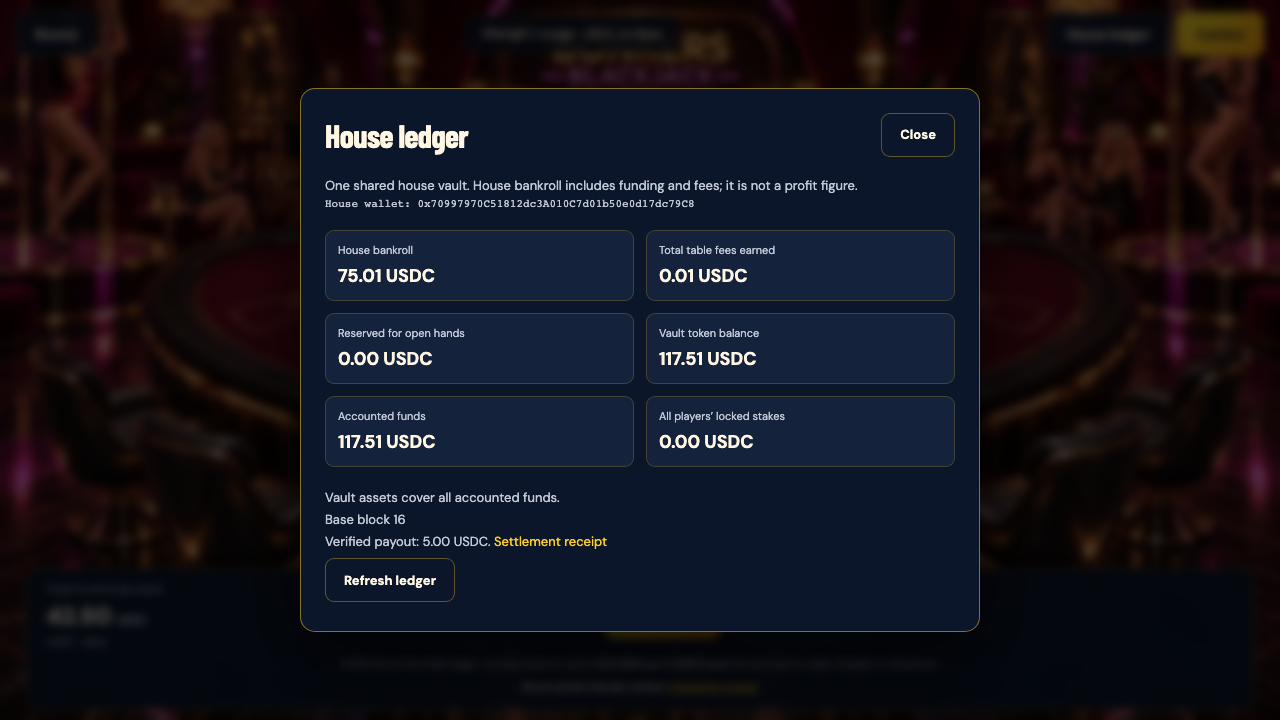
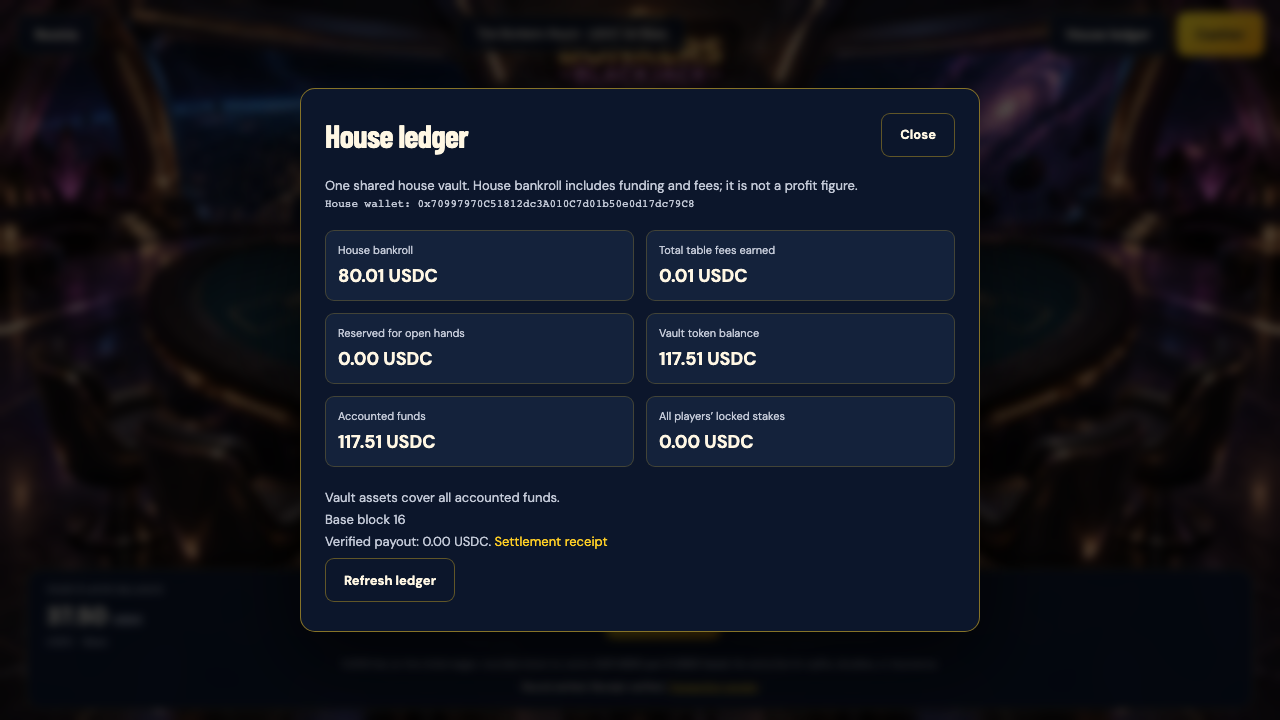
Keep higher-stakes rooms coming soon and explain house collateral

diff --git a/app/crypto-pilot/ui.tsx b/app/crypto-pilot/ui.tsx
@@ -77,7 +77,7 @@ export default function Pilot({roomId='bonkers-room',housePage=false}:{roomId?:R
     <section className="cashier-section"><h3>Deposit</h3><label className="wallet-amount">Deposit amount (USDC)<input inputMode="decimal" value={depositAmount} onChange={e=>setDepositAmount(e.target.value)}/></label><button className="live-button" disabled={!authenticated||!status.depositsOpen||!!busy} onClick={()=>void deposit()}>Approve &amp; deposit USDC</button><p>Suggested: 42.51 USDC covers four doubled split hands, insurance, and the initial fee. Your wallet shows the exact approval and network fee before confirmation.</p></section>
     <section className="cashier-section"><h3>Withdraw</h3><label className="wallet-amount">Withdrawal amount (USDC)<input inputMode="decimal" placeholder="Leave blank for all available funds" value={withdrawAmount} onChange={e=>setWithdrawAmount(e.target.value)}/></label><p className="live-address">Destination: {owner}</p><button className="live-button quiet" disabled={!d||!!busy||!balances.available||BigInt(balances.available)===0n} onClick={()=>void withdraw()}>Withdraw USDC</button><p>Withdrawals remain available when deposits are closed. Funds locked in a hand become available after settlement or recovery.</p></section>
    </>}
-   {isHouse&&<section className="house-controls"><h3>House administration</h3><p>Only your configured house wallet can use these controls. Players share this table and never fund the house themselves.</p>{!d?<><button className="live-button" disabled={!authenticated||!status.dealer||!!busy} onClick={()=>void deploy()}>Create shared house table</button><details><summary>Recover a completed deployment</summary><label className="wallet-amount">Deployment transaction hash<input value={deploymentHash} onChange={e=>setDeploymentHash(e.target.value)}/></label><button className="live-button quiet" disabled={!authenticated||!!busy} onClick={()=>void registerDeployment()}>Register deployment receipt</button></details></>:<><label className="wallet-amount">House funding amount (USDC)<input inputMode="decimal" value={houseAmount} onChange={e=>setHouseAmount(e.target.value)}/></label><button className="live-button quiet" disabled={!!busy} onClick={()=>void fund()}>Fund house reserve</button><button className="live-button quiet" disabled={!!busy} onClick={()=>void fundGas()}>Fund dealer gas · 0.0002 ETH</button><p>Dealer gas: {status.dealerGas?`${Number(BigInt(status.dealerGas))/1e18} ETH`:'—'}. The dealer handles cards; it cannot withdraw USDC. Funding keeps deposits closed.</p><button className="live-button" disabled={!!busy||status.depositsOpen||!status.dealerReady||BigInt(status.houseBalance??'0')-BigInt(status.reserved??'0')<HOUSE_RESERVE} onClick={()=>void setDeposits(true)}>House funded — open deposits</button><button className="live-button quiet" disabled={!!busy} onClick={()=>void setDeposits(false)}>Close deposits</button><button className="live-button quiet" disabled={!!busy} onClick={()=>void withdrawHouse()}>Withdraw unreserved house funds</button></>}</section>}
+   {isHouse&&<section className="house-controls"><h3>House administration</h3><p>Only your configured house wallet can use these controls. Players use this shared vault and never fund the house themselves.</p><p>75 USDC is the minimum house collateral for one active 5-USDC hand. Seven simultaneous hands require at least 525 USDC before a cushion for losses. Funding 75 USDC does not fund seven seats.</p>{!d?<><button className="live-button" disabled={!authenticated||!status.dealer||!!busy} onClick={()=>void deploy()}>Create shared house table</button><details><summary>Recover a completed deployment</summary><label className="wallet-amount">Deployment transaction hash<input value={deploymentHash} onChange={e=>setDeploymentHash(e.target.value)}/></label><button className="live-button quiet" disabled={!authenticated||!!busy} onClick={()=>void registerDeployment()}>Register deployment receipt</button></details></>:<><label className="wallet-amount">House funding amount (USDC)<input inputMode="decimal" value={houseAmount} onChange={e=>setHouseAmount(e.target.value)}/></label><button className="live-button quiet" disabled={!!busy} onClick={()=>void fund()}>Fund house reserve</button><button className="live-button quiet" disabled={!!busy} onClick={()=>void fundGas()}>Fund dealer gas · 0.0002 ETH</button><p>Dealer gas: {status.dealerGas?`${Number(BigInt(status.dealerGas))/1e18} ETH`:'—'}. The dealer handles cards; it cannot withdraw USDC. Funding keeps deposits closed.</p><button className="live-button" disabled={!!busy||status.depositsOpen||!status.dealerReady||BigInt(status.houseBalance??'0')-BigInt(status.reserved??'0')<HOUSE_RESERVE} onClick={()=>void setDeposits(true)}>House funded — open deposits</button><button className="live-button quiet" disabled={!!busy} onClick={()=>void setDeposits(false)}>Close deposits</button><button className="live-button quiet" disabled={!!busy} onClick={()=>void withdrawHouse()}>Withdraw unreserved house funds</button></>}</section>}
    {housePage&&!isHouse&&<p className="live-address">House administrator: {status.house}. Connect that wallet to manage the house.</p>}{d&&<a className="live-contract-link" href={`https://basescan.org/address/${d.game}`} target="_blank" rel="noreferrer">View shared table contract</a>}<p>Use the deposit button to credit your balance. Direct token transfers to the house address or vault do not credit a player account.</p><p className="live-message" role="status">{busy||message}</p>
   </WalletDialog>}
   {ledger&&<WalletDialog title="House ledger" onClose={()=>setLedger(false)}><p>One shared house vault. House bankroll includes funding and fees; it is not a profit figure.</p><p className="live-address">House wallet: {status.house}</p><dl className="wallet-stats"><div><dt>House bankroll</dt><dd data-testid="house-bankroll">{display(balances.house||status.houseBalance)} USDC</dd></div><div><dt>Total table fees earned</dt><dd data-testid="house-fees">{display(balances.fees)} USDC</dd></div><div><dt>Reserved for open hands</dt><dd>{display(balances.reserved||status.reserved)} USDC</dd></div><div><dt>Vault token balance</dt><dd>{display(balances.assets)} USDC</dd></div><div><dt>Accounted funds</dt><dd>{display(balances.accounted)} USDC</dd></div><div><dt>All players’ locked stakes</dt><dd>{display(balances.locked)} USDC</dd></div></dl><p data-testid="ledger-integrity">{!balances.accounted?'Connect a wallet to read the full ledger.':BigInt(balances.assets)>=BigInt(balances.accounted)?'Vault assets cover all accounted funds.':'Reconciliation required; new play is disabled.'}</p><p>Base block {balances.block||'—'}</p>{round?.receipt&&<p>Verified payout: {display(round.receipt.payouts[0])} USDC. <a href={`https://basescan.org/tx/${round.receipt.settlementHash}`} target="_blank" rel="noreferrer">Settlement receipt</a></p>}<button className="live-button quiet" disabled={!!busy} onClick={()=>void run('Refresh ledger',async()=>{const s=await refreshStatus();await readBalances(s);})}>Refresh ledger</button></WalletDialog>}

diff --git a/tests/crypto-browser/live-wallet.spec.ts b/tests/crypto-browser/live-wallet.spec.ts
@@ -23,7 +23,7 @@ async function connect(page:Page){await page.getByRole('button',{name:'Choose wa
 test('one shared house: Base selection, explicit opening, separate player deposit/play/withdraw',async({browser})=>{
  test.setTimeout(240000);const houseContext=await browser.newContext(),playerContext=await browser.newContext();const hp=await houseContext.newPage(),pp=await playerContext.newPage(),errors:string[]=[];hp.on('pageerror',e=>errors.push(e.message));pp.on('pageerror',e=>errors.push(e.message));hp.setDefaultTimeout(15000);pp.setDefaultTimeout(15000);await inject(hp,house);await inject(pp,player);
  await hp.goto('/house');await connect(hp);const hd=hp.getByRole('dialog',{name:'House controls'});await expect(hd.getByRole('button',{name:'Create shared house table',exact:true})).toBeEnabled();await hd.getByRole('button',{name:'Create shared house table',exact:true}).click();await expect(hd.getByRole('status')).toContainText('Shared table created',{timeout:60000});const status=await (await hp.request.get('/api/house/status')).json();const{game,vault}=status.deployment;assert.notEqual(house.address.toLowerCase(),player.address.toLowerCase());
- await pp.goto('/live/midnight-lounge');await pp.locator('.live-table-header').getByRole('button',{name:'Connect wallet',exact:true}).click();await pp.getByRole('dialog',{name:'Connect wallet'}).getByRole('button',{name:'Base / Coinbase Wallet',exact:true}).click();const pd=pp.getByRole('dialog',{name:'USDC cashier'});await expect(pd.getByRole('button',{name:'Approve & deposit USDC',exact:true})).toBeDisabled();await expect(pd.getByRole('heading',{name:'House administration'})).toHaveCount(0);await expect(pd.getByRole('button',{name:'Create shared house table'})).toHaveCount(0);
+ await pp.goto('/live/bonkers-room');await pp.locator('.live-table-header').getByRole('button',{name:'Connect wallet',exact:true}).click();await pp.getByRole('dialog',{name:'Connect wallet'}).getByRole('button',{name:'Base / Coinbase Wallet',exact:true}).click();const pd=pp.getByRole('dialog',{name:'USDC cashier'});await expect(pd.getByRole('button',{name:'Approve & deposit USDC',exact:true})).toBeDisabled();await expect(pd.getByRole('heading',{name:'House administration'})).toHaveCount(0);await expect(pd.getByRole('button',{name:'Create shared house table'})).toHaveCount(0);
  await hd.getByRole('button',{name:'Fund house reserve',exact:true}).click();await expect(hd.getByRole('status')).toContainText('House reserve funded',{timeout:60000});assert.equal(await client.readContract({address:vault,abi:vaultAbi,functionName:'paused'}),true);assert.equal((await (await pp.request.get('/api/house/status')).json()).depositsOpen,false);
  await hd.getByRole('button',{name:'House funded — open deposits',exact:true}).click();await expect(hd.getByRole('status')).toContainText('You opened deposits',{timeout:60000});assert.equal(await client.readContract({address:vault,abi:vaultAbi,functionName:'paused'}),false);
  await pp.reload();await pp.locator('.live-table-header').getByRole('button',{name:'Connect wallet',exact:true}).click();await pp.getByRole('dialog',{name:'Connect wallet'}).getByRole('button',{name:'Base / Coinbase Wallet',exact:true}).click();await expect(pd.getByRole('button',{name:'Approve & deposit USDC',exact:true})).toBeEnabled();await pd.getByLabel('Deposit amount (USDC)').fill('42.51');await pd.getByRole('button',{name:'Approve & deposit USDC',exact:true}).click();await expect(pd.getByRole('status')).toContainText('Deposit confirmed',{timeout:60000});assert.equal(await client.readContract({address:vault,abi:vaultAbi,functionName:'available',args:[player.address]}),42510000n);assert.equal(await client.readContract({address:vault,abi:vaultAbi,functionName:'available',args:[house.address]}),0n);
@@ -39,6 +39,11 @@ test('one shared house: Base selection, explicit opening, separate player deposi
 
 test('public lobby stays closed and Connect wallet opens the explicit Base chooser',async({page})=>{
  await page.goto('/');await expect(page.getByText('Deposits are closed until the house wallet funds the reserve and explicitly opens them.',{exact:false})).toBeVisible();
- for(const [name,id]of [['The Bonkers Room','bonkers-room'],['Midnight Lounge','midnight-lounge'],['Carnival Club','high-society']])await expect(page.getByRole('link',{name:'Enter '+name,exact:true})).toHaveAttribute('href','/live/'+id);
+ await expect(page.getByRole('link',{name:'Enter The Bonkers Room',exact:true})).toHaveAttribute('href','/live/bonkers-room');
+ for(const [name,id]of [['Midnight Lounge','midnight-lounge'],['Carnival Club','high-society']]){
+  await expect(page.getByRole('article',{name:name+' — Coming soon'})).toBeVisible();await expect(page.getByRole('link',{name:'Enter '+name,exact:true})).toHaveCount(0);
+  await page.goto('/live/'+id);await expect(page.getByRole('heading',{name:'Coming soon',exact:true})).toBeVisible();await expect(page.getByRole('button',{name:'Deal 5 USDC'})).toHaveCount(0);await page.goto('/');
+ }
+ await page.screenshot({path:'docs/screenshots/first-room-only.png',fullPage:true});
  await page.getByRole('link',{name:'Connect wallet',exact:true}).click();const chooser=page.getByRole('dialog',{name:'Connect wallet'});await expect(chooser).toBeVisible();await expect(chooser.getByRole('button',{name:'Base / Coinbase Wallet · Not detected',exact:true})).toBeDisabled();await expect(chooser.getByText('No wallet will be selected automatically.')).toBeVisible();
 });

diff --git a/src/LiveLobby.tsx b/src/LiveLobby.tsx
@@ -1,6 +1,6 @@
 import Image from 'next/image';
 import Link from 'next/link';
-import {ROOMS} from '../shared/rooms';
+import {ROOMS,liveRoomOpen} from '../shared/rooms';
 import './live.css';
 import {houseStatus} from '../server/crypto/house';
 export default async function LiveLobby(){
@@ -8,7 +8,11 @@ export default async function LiveLobby(){
  return <main className="live-home">
   <header className="live-header"><Link href="/" className="live-brand"><Image src="/bonkers-blackjack-logo.png" alt="Bonkers Blackjack" width={80} height={80}/><span>BONKERS<small>BLACKJACK</small></span></Link><span className="live-network">USDC · BASE</span><Link href="/live/bonkers-room?cashier=1" className="live-button">Connect wallet</Link></header>
   <section className="live-intro"><div><p className="live-eyebrow">ONE HOUSE. YOUR WALLET.</p><h1>A little mad.<br/><span>All blackjack.</span></h1><p>Pick your room. Bring your wallet. Play with native USDC on Base.</p><p className="live-intro-note">{status.depositsOpen?'Deposits are open. Connect your wallet to deposit and play.':'Deposits are closed until the house wallet funds the reserve and explicitly opens them.'} Wagers start at 5 USDC.</p>{!process.env.VERCEL&&!status.dealer&&<p><a className="live-button quiet" href="https://bonkers-blackjack.vercel.app/house">Open hosted house controls</a></p>}</div><Image src="/bonkers-blackjack-logo.png" alt="Bonkers Blackjack grinning dog logo" width={450} height={450} priority/></section>
-  <section className="live-rooms" aria-label="Choose a room">{Object.entries(ROOMS).map(([id,room])=><Link key={id} className="live-room-card" href={`/live/${id}`} aria-label={`Enter ${room.name}`} prefetch={false}><div className="live-room-picture"><Image src={room.image} alt={room.description} fill sizes="(max-width: 700px) 100vw, 33vw" loading="eager"/><span>{room.label}</span></div><div className="live-room-caption"><h2>{room.name}</h2><p>5 USDC initial wager · Blackjack pays 3:2</p><strong>Enter room</strong></div></Link>)}</section>
+  <section className="live-rooms" aria-label="Choose a room">{Object.entries(ROOMS).map(([id,room])=>{
+   const open=liveRoomOpen(id);
+   const content=<><div className="live-room-picture"><Image src={room.image} alt={room.description} fill sizes="(max-width: 700px) 100vw, 33vw" loading="eager"/><span>{room.label}</span>{!open&&<b className="coming-soon-badge">Coming soon</b>}</div><div className="live-room-caption"><h2>{room.name}</h2><p>{open?'5 USDC initial wager · Blackjack pays 3:2':'Higher stakes · Opening later'}</p><strong>{open?'Enter room':'Coming soon'}</strong></div></>;
+   return open?<Link key={id} className="live-room-card" href={`/live/${id}`} aria-label={`Enter ${room.name}`} prefetch={false}>{content}</Link>:<article key={id} className="live-room-card coming-soon-card" aria-label={`${room.name} — Coming soon`}>{content}</article>;
+  })}</section>
   <footer className="live-footer"><Link href="/house">House controls</Link><p>Native USDC on Base. Each transaction requires your wallet confirmation. Contracts are unaudited.</p><p>18+ · Insurance · Splitting · Doubling · Late surrender</p></footer>
  </main>;
 }

diff --git a/src/live.css b/src/live.css
@@ -5,3 +5,5 @@
 @media(prefers-reduced-motion:reduce){.live-room-card{transition:none}}
 
 .wallet-choices{display:grid;gap:10px;margin:20px 0}.wallet-dialog a{color:#ffcf26}.cashier-network{display:flex;justify-content:space-between;gap:15px;align-items:center;background:#14223b;border:1px solid #ffcf2659;border-radius:9px;padding:14px}.cashier-network span{font-size:12px;color:#c3c9d7}.cashier-section,.house-controls{border-top:1px solid #ffcf2644;margin-top:22px;padding-top:12px}.house-controls{border:1px solid #ffcf2666;border-radius:12px;padding:16px}.house-controls .live-button{margin:5px 6px 5px 0}.wallet-dialog .live-notice{color:#ffcf26}.live-room-status{white-space:normal;min-width:210px}.live-room-status:empty{display:none}
+
+.coming-soon-card:hover{transform:none;border-color:#ffcf2644}.coming-soon-card .live-room-picture img{filter:brightness(.55)}.coming-soon-badge{position:absolute;inset:0;display:flex;align-items:center;justify-content:center;text-transform:uppercase;letter-spacing:3px;font:800 clamp(20px,2.5vw,36px) var(--font-heading),sans-serif;color:#ffcf26;text-shadow:0 3px 15px #000}.coming-soon-page{position:relative;min-height:100dvh;display:grid;place-items:center;background:#080f24;color:#fff7e4;padding:24px;isolation:isolate}.coming-soon-page>img{object-fit:cover;z-index:-1;filter:brightness(.3)}.coming-soon-page>section{max-width:560px;text-align:center;padding:35px;background:#0a142bf0;border:1px solid #ffcf2666;border-radius:16px}.coming-soon-page h1{font:700 48px var(--font-heading),sans-serif}.coming-soon-page h2{color:#ffcf26;font-size:28px}.coming-soon-page p{line-height:1.7}.coming-soon-page .live-button{margin-top:15px}

diff --git a/app/live/[room]/page.tsx b/app/live/[room]/page.tsx
@@ -1,10 +1,16 @@
+import Link from 'next/link';
+import Image from 'next/image';
 import {notFound} from 'next/navigation';
 import Pilot from '../../crypto-pilot/ui';
-import {ROOMS,type RoomId} from '../../../shared/rooms';
+import {ROOMS,liveRoomOpen,type RoomId} from '../../../shared/rooms';
 import {cryptoPilotEnabled} from '../../../shared/crypto/access';
 export const dynamic='force-dynamic';
 export default async function Page({params}:{params:Promise<{room:string}>}){
  const {room}=await params;
  if(!cryptoPilotEnabled()||!Object.hasOwn(ROOMS,room))notFound();
+ if(!liveRoomOpen(room)){
+  const info=ROOMS[room as RoomId];
+  return <main className="coming-soon-page"><Image src={info.image} alt={info.description} fill sizes="100vw" priority/><section><p className="live-eyebrow">HIGHER STAKES</p><h1>{info.name}</h1><h2>Coming soon</h2><p>This room is not accepting players or wagers yet.</p><Link className="live-button" href="/">Back to rooms</Link></section></main>;
+ }
  return <Pilot roomId={room as RoomId}/>;
 }

diff --git a/shared/rooms.ts b/shared/rooms.ts
@@ -6,3 +6,6 @@ export const ROOMS = {
 export function roomArt(id: string) { return ROOMS[id as keyof typeof ROOMS] ?? ROOMS["bonkers-room"]; }
 
 export type RoomId=keyof typeof ROOMS;
+
+/** Only the initial 5-USDC room is available during the first funding test. */
+export function liveRoomOpen(id:string){return id==="bonkers-room";}

diff --git a/docs/crypto/SHARED-HOUSE.md b/docs/crypto/SHARED-HOUSE.md
@@ -4,7 +4,7 @@ This supersedes the same-wallet pilot described in LIVE-WALLET-ENTRANCE.md.
 
 ## Ownership and funding
 
-The house administrator is pinned to `0xe8e3587b47253051Aed6e02430cdE5B1c1664B6B`, as supplied by the owner. Every room uses the same registered game/vault. A player never deploys a game or funds the house. Player USDC is credited to that player's address. Withdrawals are signed by the player and return funds to that wallet; pausing deposits never prevents available-balance withdrawals.
+The house administrator is pinned to `0xe8e3587b47253051Aed6e02430cdE5B1c1664B6B`, as supplied by the owner. Only The Bonkers Room is open. Midnight Lounge and Carnival Club are non-interactive Coming soon cards; direct URLs show a Coming soon page without a game or cashier. The first room uses the registered shared game/vault. A player never deploys a game or funds the house. Player USDC is credited to that player's address. Withdrawals are signed by the player and return funds to that wallet; pausing deposits never prevents available-balance withdrawals.
 
 The owner explicitly approved a separate dealer credential. Its public address is `0x2FbDB1d95F5926F4B3607bF395bf7c18F5369eA6`. It is stored in macOS Keychain (`ai.bonkers-blackjack.dealer.production`) and as an encrypted Vercel production secret (`BONKERS_DEALER_KEY`). No key is committed, printed, passed as a command argument, or put in browser code. It has no treasury/player withdrawal permission. It can spend its funded ETH gas and operate the game; a compromised dealer remains a game-integrity risk. Keep its gas balance limited. Rotation requires completing/recovering open rounds and a new immutable game deployment; do not silently replace the key while funds/round secrets depend on it.
 
@@ -18,6 +18,12 @@ House setup at `/house`:
 6. A different wallet can now connect, approve a chosen amount, deposit, play a 5-USDC initial wager, and withdraw its own funds. The house can close deposits at any time. Withdrawing house funds closes deposits first and cannot take player balances or collateral reserved for active hands.
 
 New contracts enforce 75 USDC free collateral for Base deposits and opening, while enforcing the same original reserved-collateral accounting. A capacity shortfall closes new deposits/play in the UI. Existing immutable deployments are not modified by publishing this code. Do not send USDC directly to the house address/vault expecting player credit: the deposit button calls `depositFor` after exact approval.
+
+## Capacity and the 75-USDC minimum
+
+The minimum is collateral for ONE active initial 5-USDC hand, not funding for seven people. The vault reserves a maximum gross return of 16 × 5 = 80 USDC (including its failure recovery); the player contributes 5 and the house backs the remaining 75. Seven simultaneous initial hands therefore need at least 525 USDC house collateral before a buffer for losses. Wins paid to players reduce future capacity, and a 75-USDC house may need a top-up after the first player win.
+
+The live flow currently gives each wallet an independent assigned round. It does not implement seven players sharing one dealer hand, a seven-seat admission limit, a waiting list, or automatic table creation for an eighth player. New wagers fail closed when there is insufficient unreserved collateral. The seven-chair artwork must not be presented as proof of shared seating or queue behavior.
 
 ## Wallet connection
 
